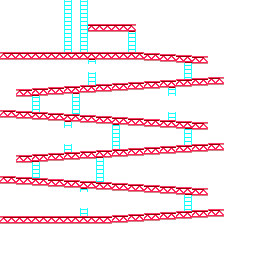
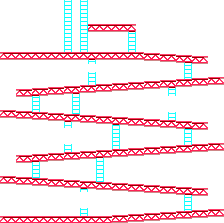
lvl1 texture fixed

diff --git a/3C1V_Donkey_Kong/DonkeyKong_Solution/Source/SceneLevel1.cpp b/3C1V_Donkey_Kong/DonkeyKong_Solution/Source/SceneLevel1.cpp
@@ -254,7 +254,7 @@ update_status SceneLevel1::PostUpdate()
 {
 	// Draw everything --------------------------------------
 	// TODO 10: Blit our test texture to check functionality
-	App->render->Blit(testTexture, 0, 130, nullptr);
+	App->render->Blit(testTexture, 0, 100, nullptr);
 	//Blit(mario, 50, 50, nullptr);
 
 	/*SDL_Rect dkong = { 51,155,40,33 };
